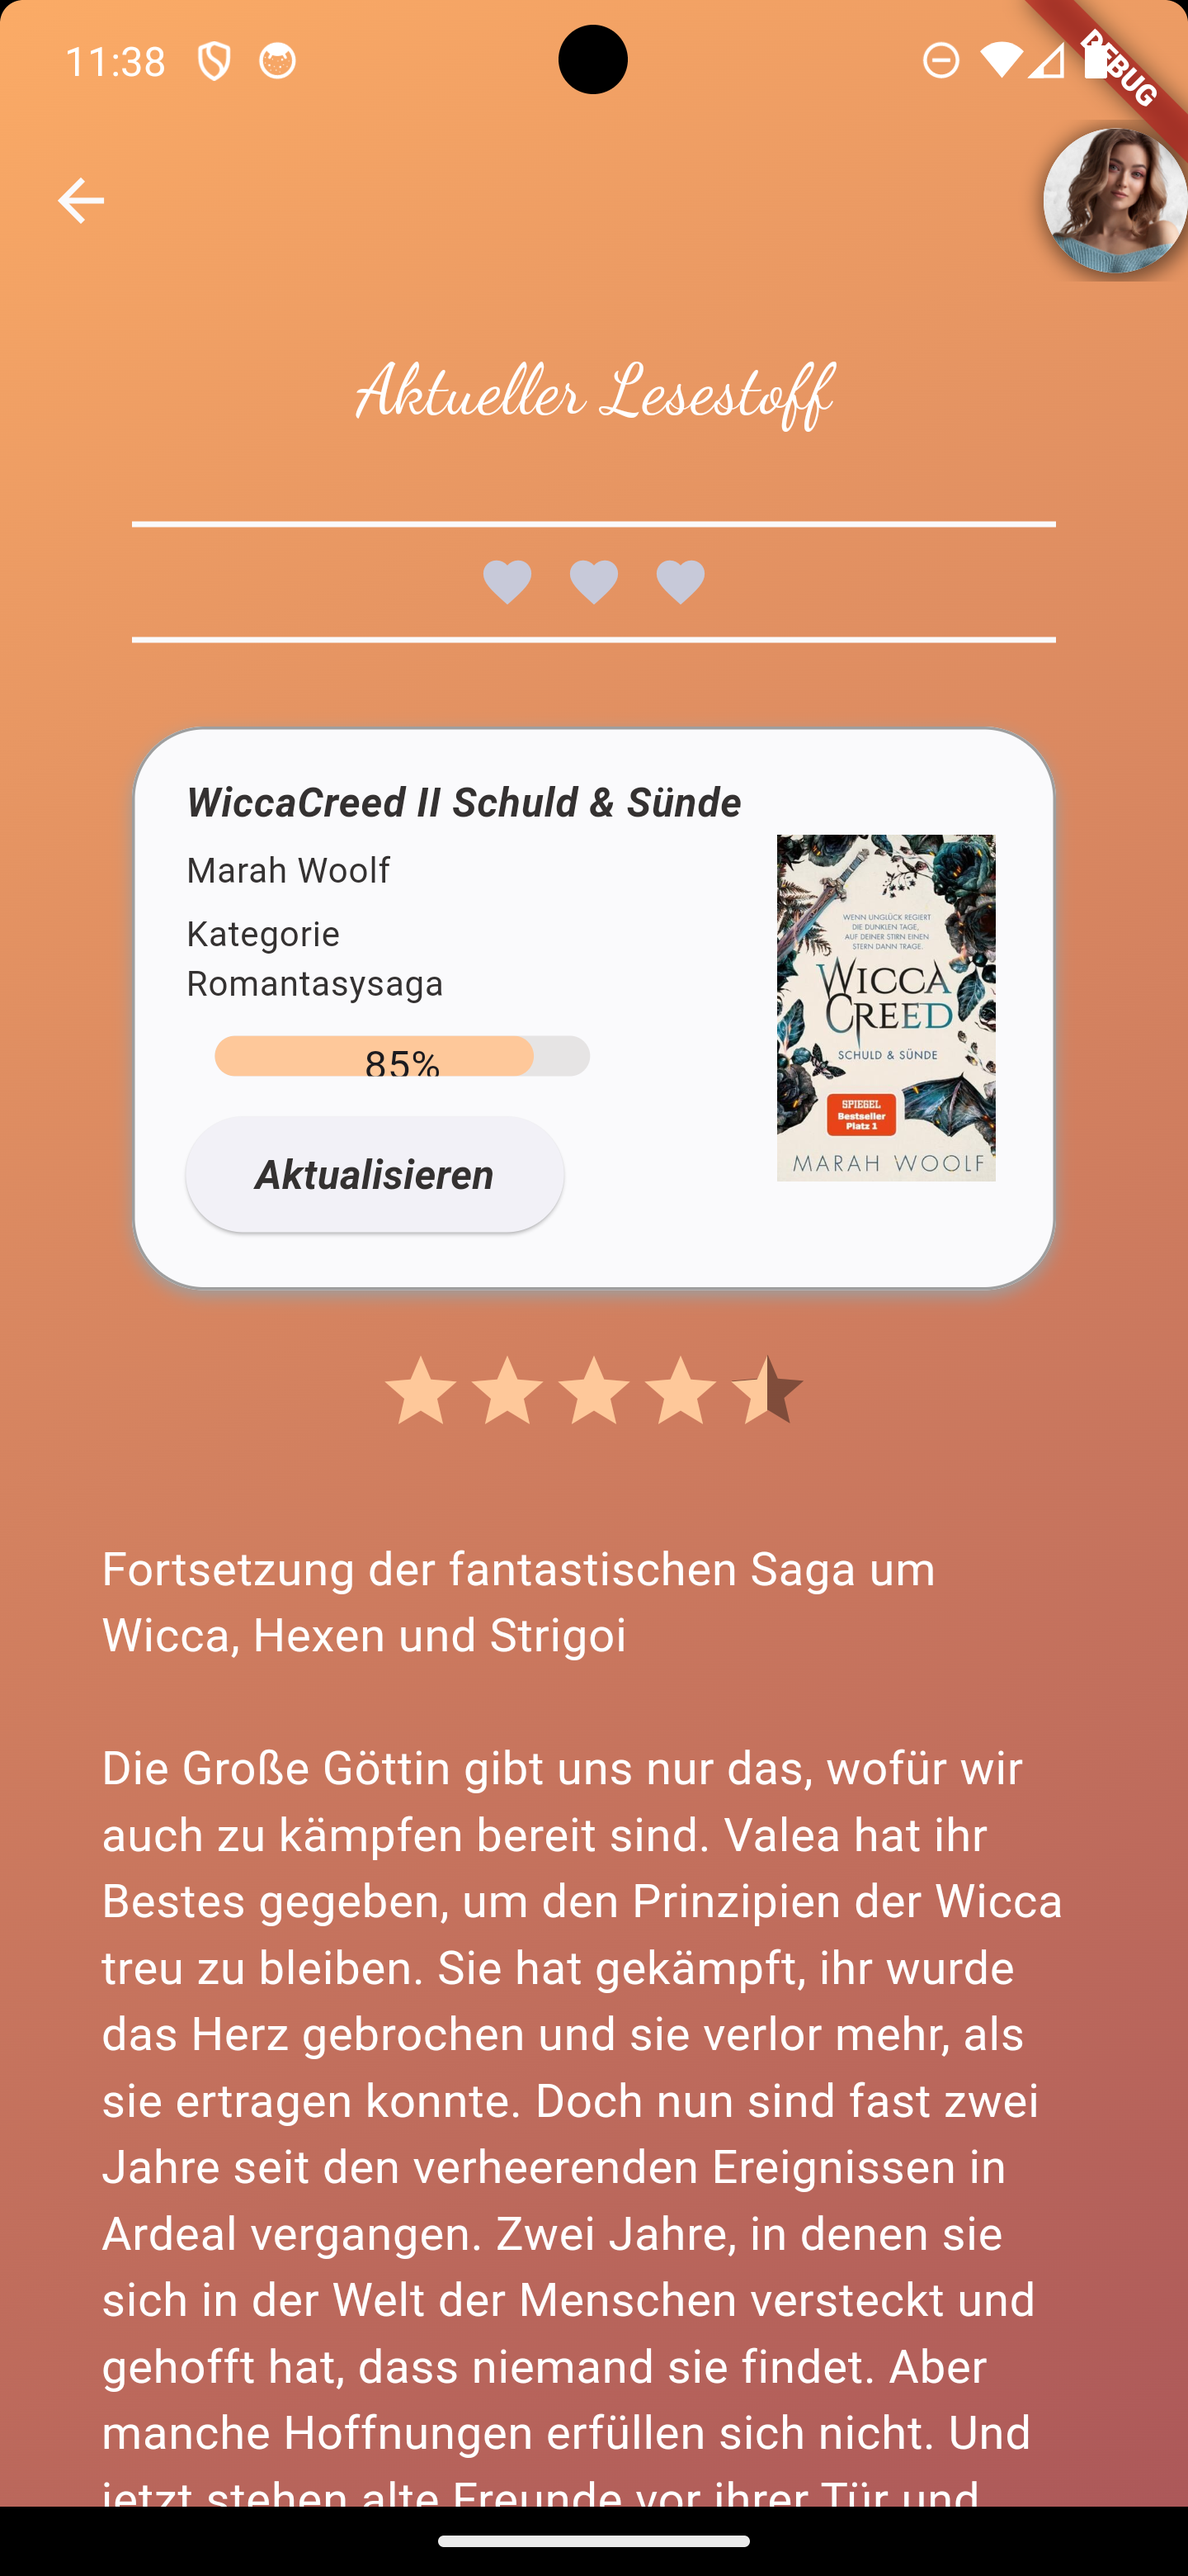
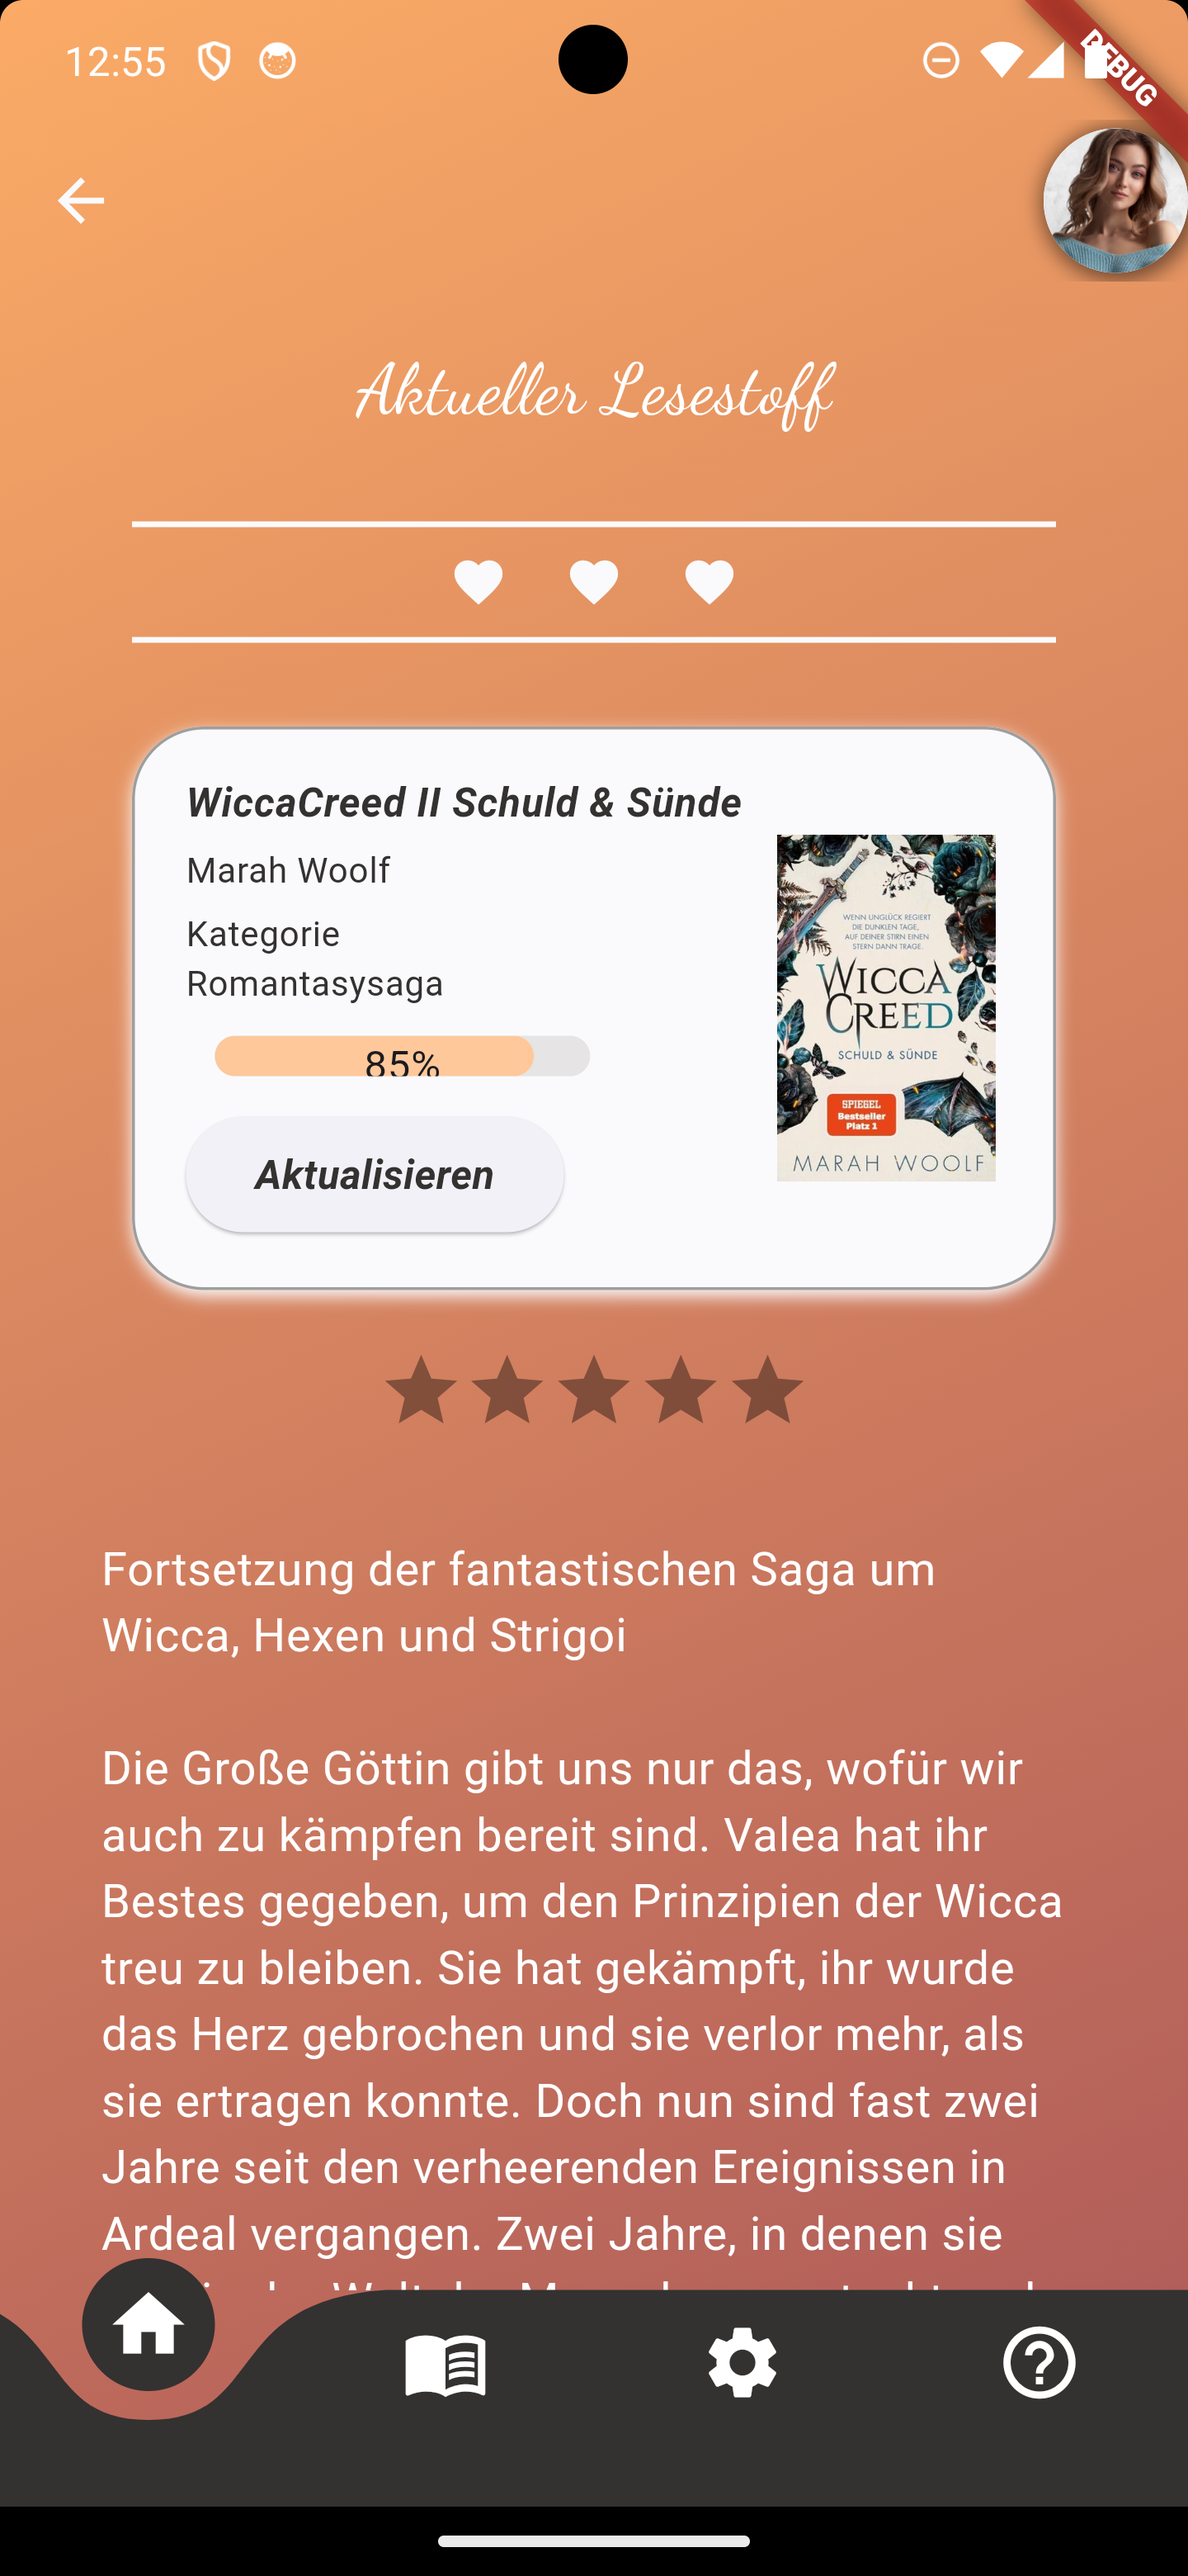
navbar

diff --git a/lib/features/currentlyBook/presentation/currently_reading_screen.dart b/lib/features/currentlyBook/presentation/currently_reading_screen.dart
@@ -1,51 +1,14 @@
 import 'package:flutter/material.dart';
 import 'package:rflutter_alert/rflutter_alert.dart';
 import 'package:flutter_rating_bar/flutter_rating_bar.dart';
-import 'package:flutter_riverpod/flutter_riverpod.dart';
 import 'package:shared_preferences/shared_preferences.dart';
+import 'package:curved_navigation_bar/curved_navigation_bar.dart';
 import '../../../backend/styles/theme.dart';
 import '../../../backend/widgets/bookInfoContainer.dart';
 import '../../../backend/widgets/bookieslist_widgets.dart';
 import '../../../backend/styles/appbar.dart';
 import '../../profil/presentation/profile_screen.dart';
 import '../../../backend/widgets/showBookUpdate.dart';
-
-void main() {
-  runApp(const ProviderScope(child: MyApp()));
-}
-
-class MyApp extends StatelessWidget {
-  const MyApp({Key? key}) : super(key: key);
-
-  @override
-  Widget build(BuildContext context) {
-    return Container(
-      decoration: const BoxDecoration(
-        gradient: LinearGradient(
-          colors: <Color>[
-            CustomTheme.loginGradientStart,
-            CustomTheme.loginGradientEnd,
-          ],
-          begin: FractionalOffset(0.0, 0.0),
-          end: FractionalOffset(1.0, 1.0),
-          stops: <double>[0.0, 1.0],
-          tileMode: TileMode.clamp,
-        ),
-      ),
-      child: MaterialApp(
-        home: const CurrentlyReadingScreen(),
-        theme: ThemeData.light().copyWith(
-          primaryColor: CustomTheme.darkRed,
-          scaffoldBackgroundColor: Colors.transparent,
-          appBarTheme: const AppBarTheme(
-            backgroundColor: Colors.transparent,
-            elevation: 0,
-          ),
-        ),
-      ),
-    );
-  }
-}
 
 class CurrentlyReadingScreen extends StatefulWidget {
   const CurrentlyReadingScreen({Key? key}) : super(key: key);
@@ -165,6 +128,9 @@ class _CurrentlyReadingScreenState extends State<CurrentlyReadingScreen> {
     ).show();
   }
 
+  int currentPageIndex =
+      0; // Hinzufügen des Index für die aktuelle Seite im bottomNavigationBar
+
   @override
   Widget build(BuildContext context) {
     return Scaffold(
@@ -262,6 +228,41 @@ class _CurrentlyReadingScreenState extends State<CurrentlyReadingScreen> {
             ),
           ],
         ),
+      ),
+      bottomNavigationBar: CurvedNavigationBar(
+        index: currentPageIndex,
+        backgroundColor: Colors.transparent,
+        color: CustomTheme.darkMode,
+        buttonBackgroundColor: CustomTheme.darkMode,
+        onTap: (int index) {
+          setState(() {
+            currentPageIndex = index;
+            switch (index) {
+              case 0:
+                // Home Icon - Zu HomeScreen navigieren
+                Navigator.pushNamed(context, '/');
+                break;
+              case 1:
+                // Menu Book - Zu UnreadBooks navigieren
+                Navigator.pushNamed(context, '/unreadBooks');
+                break;
+              case 2:
+                // Settings - Zum SettingsScreen navigieren
+                Navigator.pushNamed(context, '/settings');
+                break;
+              case 3:
+                // Help Outline - Zum RandomGeneratorScreen navigieren
+                Navigator.pushNamed(context, '/randomGenerator');
+                break;
+            }
+          });
+        },
+        items: const <Widget>[
+          Icon(Icons.home, size: 30, color: Colors.white),
+          Icon(Icons.menu_book, size: 30, color: Colors.white),
+          Icon(Icons.settings, size: 30, color: Colors.white),
+          Icon(Icons.help_outline, size: 30, color: Colors.white),
+        ],
       ),
     );
   }
